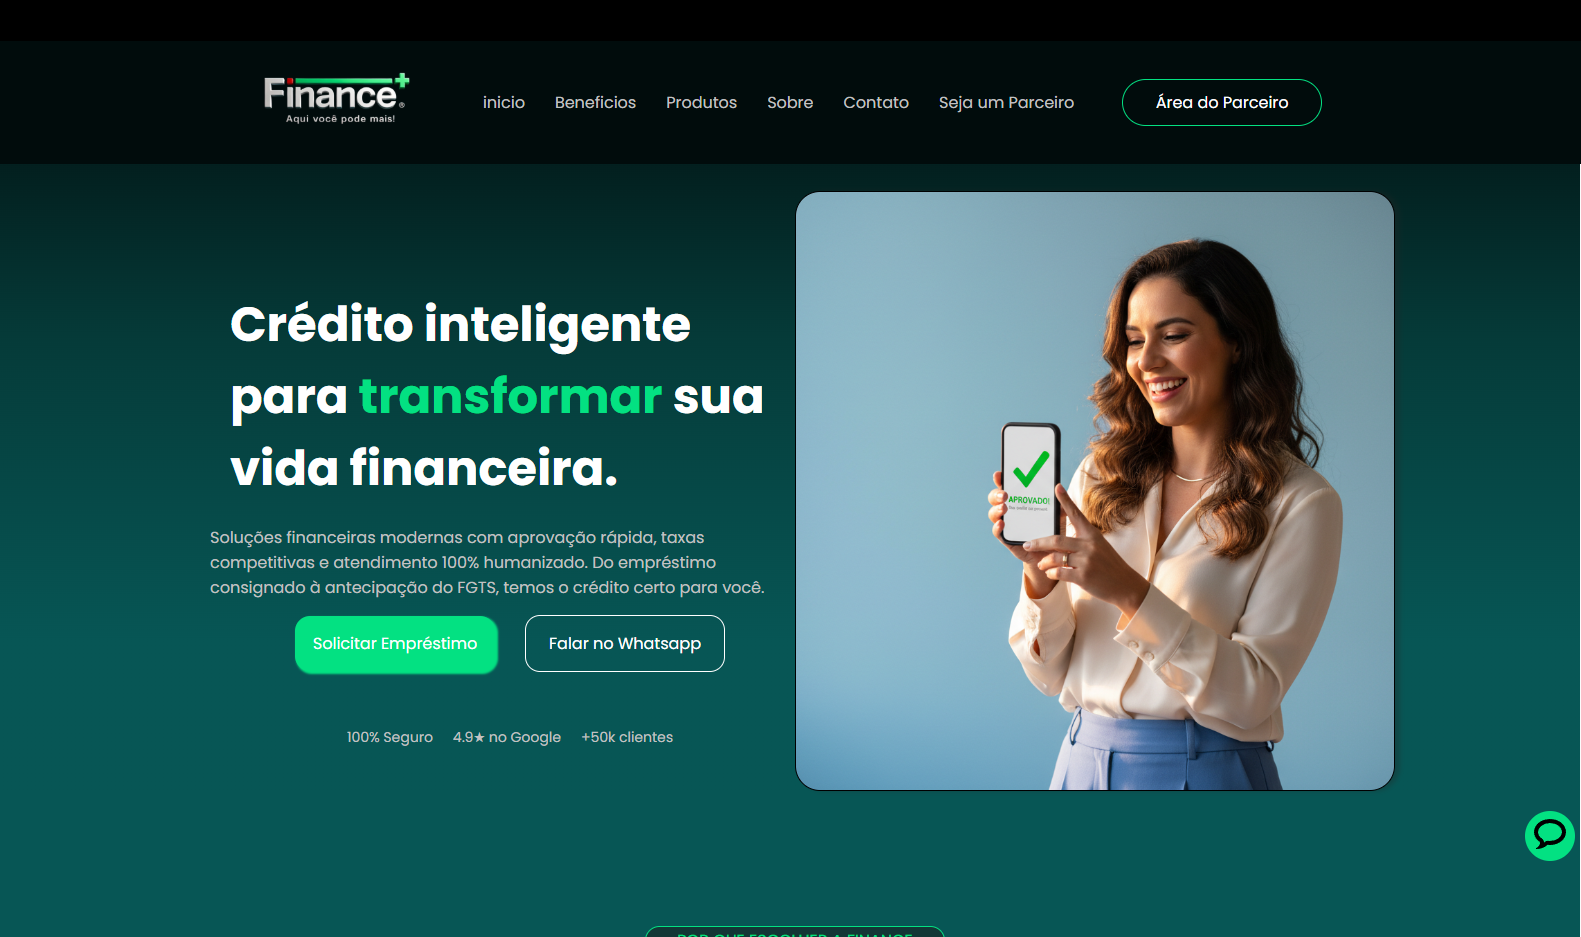
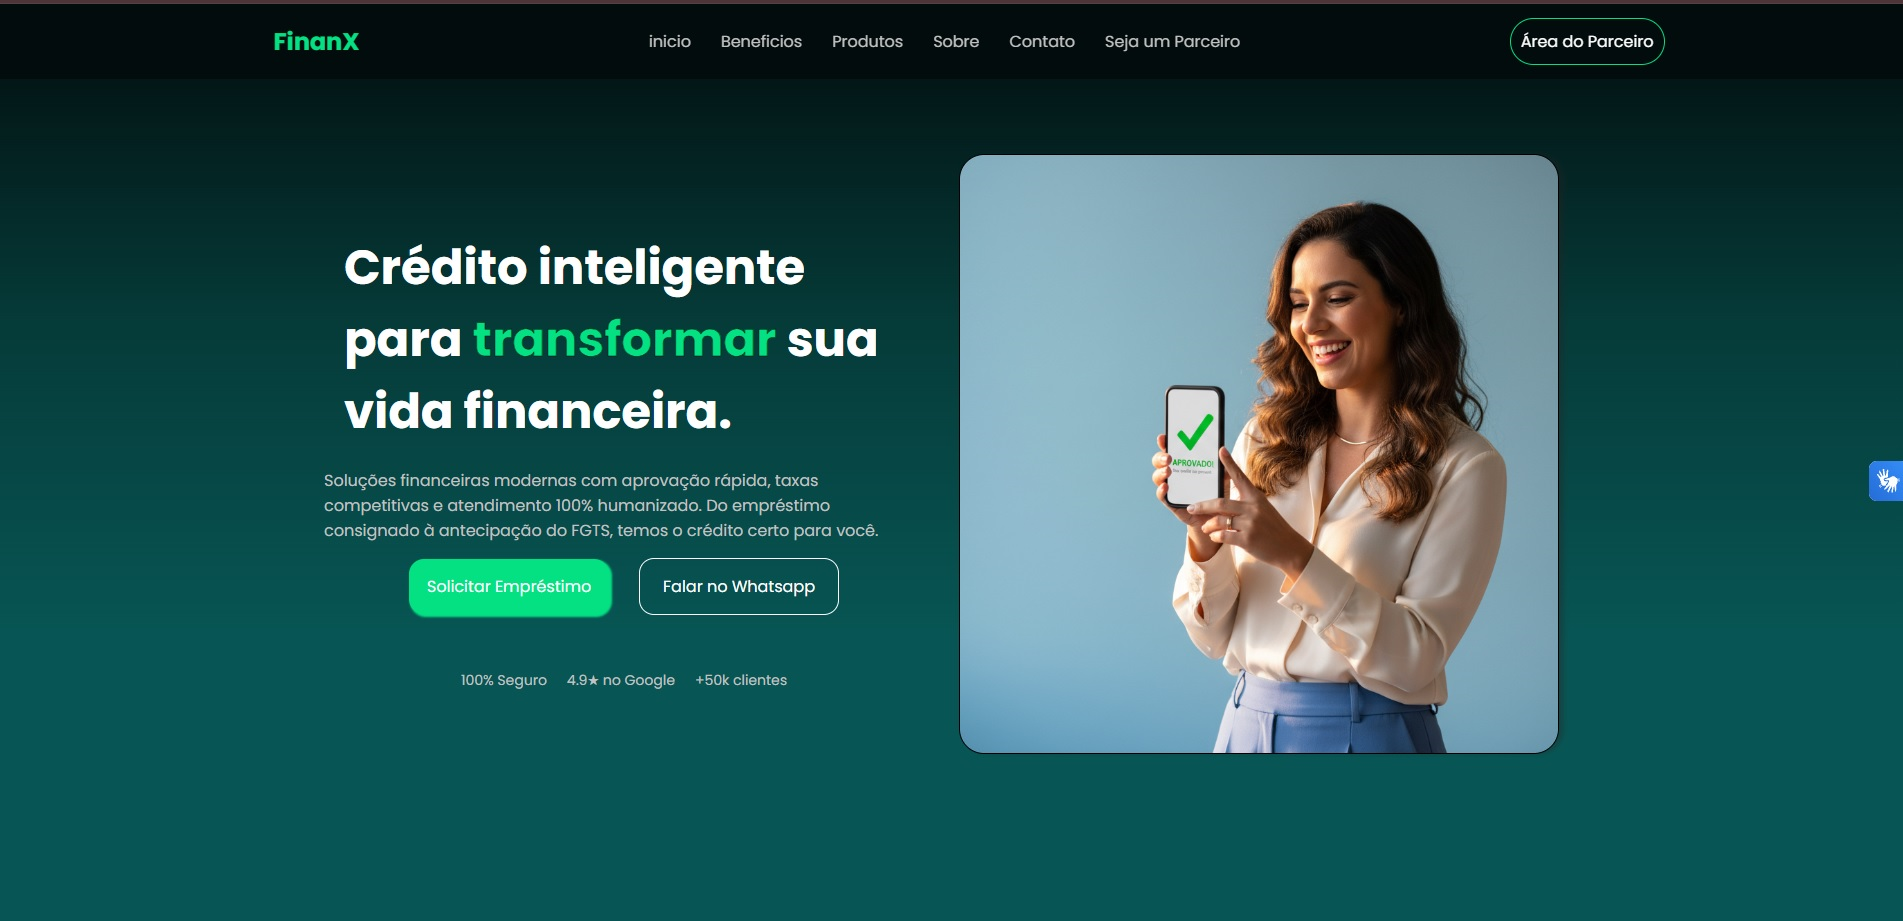
style.css

diff --git a/index.html b/index.html
@@ -278,9 +278,9 @@
                         </p>
                     </div>
                     <article class="project-card reveal">
-                        <div class="project-media">
+                        <div class="project-media project-finanx">
                             <div class="project-placeholder" data-project-parallax="">
-                                FinanX
+                        
                             </div>
                         </div>
                         <div class="project-content">
@@ -293,7 +293,7 @@
                             <p>
                                 Landing page moderna e responsiva para apresentação de serviços financeiros, desenvolvida com foco em experiência do usuário e conversão.
                             </p>
-                            <a class="btn btn-outline" href="https://ramonsantosdev.github.io/Finance/" rel="noopener noreferrer" target="_blank">
+                            <a class="btn btn-outline" href="https://ramonsantosdev.github.io/FinanX/" rel="noopener noreferrer" target="_blank">
                                 Ver projeto ↗
                             </a>
                         </div>
@@ -371,7 +371,7 @@
                                 WhatsApp
                             </strong>
                             <span>
-                                Número a configurar
+                                (79) 99630-8241
                             </span>
                         </div>
                     </div>

diff --git a/style.css b/style.css
@@ -182,11 +182,24 @@ header.scrolled,header.menu-open {
 }
 
 .eyebrow {
+    display: flex;
+    align-items: center;
+    gap: 10px;
     font-size: .76rem;
     letter-spacing: .24em;
     text-transform: uppercase;
     color: var(--cor-texto-secundario);
     font-weight: 700;
+}
+
+.eyebrow::before {
+    content: "";
+    width: 8px;
+    height: 8px;
+    background-color: var(--cor-glow);
+    border-radius: 50%;
+    box-shadow: 0 0 10px rgba(179, 38, 30, 0.7);
+    flex-shrink: 0;
 }
 
 .hero h1 {
@@ -447,15 +460,20 @@ section.content-section {
     display: flex;
     align-items: center;
     justify-content: center;
+    
+}
+.project-media:hover{
+    box-shadow: 0 10px 30px rgba(179, 38, 30, 0.15);
+    border: 1px solid var(--cor-borda);
 }
 
-.project-media img {
-    width: 100%;
-    height: 120%;
-    position: absolute;
-    object-fit: cover;
-    top: -10%;
-    left: 0;
+.project-finanx {
+    background-image: url("imagens/Projeto1.png");
+    background-size: cover;
+    background-position: center;
+    background-repeat: no-repeat;
+
+    transition: background-position 5s ease-in-out;
 }
 
 .project-media .project-placeholder {
